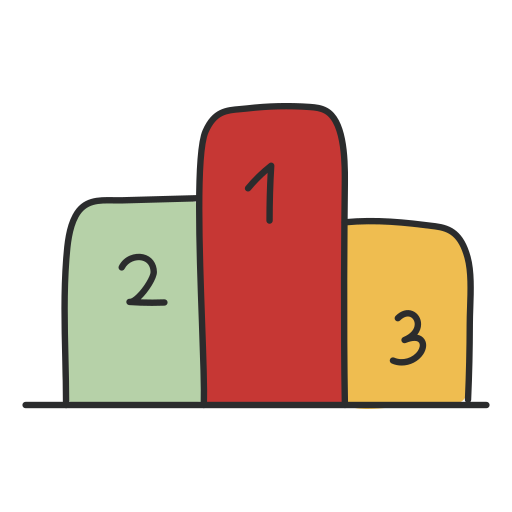
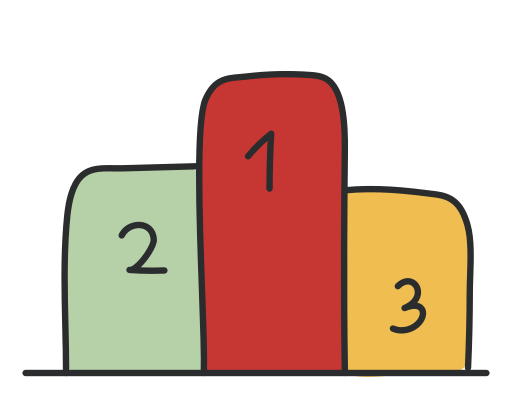
Modification taille image podium

diff --git a/style.css b/style.css
@@ -200,7 +200,7 @@ button:hover {
 .remove-player {
   background: none;
   border: none;
-  color: #c00;
+  color: #c00 !important;
   font-size: 1.2em;
   margin-left: 10px;
   cursor: pointer;
@@ -232,8 +232,7 @@ button:hover {
   background: var(--white);
 }
 
-.scrollable-list,
-.scrollable-next-list {
+.scrollable-list {
   max-height: 9em;
   overflow-y: auto;
   list-style: none;
@@ -241,15 +240,6 @@ button:hover {
   padding: 0;
 }
 
-.scrollable-list {
-  max-height: 9em;
-}
-
-.scrollable-next-list {
-  max-height: 14em;
-}
-
-.scrollable-next-list li,
 .scrollable-list li {
   display: flex;
   justify-content: space-between;
@@ -434,18 +424,18 @@ ul:has(li:not(.empty-placeholder)) .empty-placeholder {
 }
 
 .podium-slot.first {
-  top: 1.5em;
+  top: 0.5em;
   width: 100%;
 }
 
 .podium-slot.second {
-  top: 5em;
+  top: 4em;
   left: 0;
   width: 35%;
 }
 
 .podium-slot.third {
-  top: 6em;
+  top: 5em;
   right: 0;
   width: 30%;
 }
@@ -598,7 +588,6 @@ ul:has(li:not(.empty-placeholder)) .empty-placeholder {
   overflow-y: auto;
   display: flex;
   justify-content: center;
-  padding: 0 1em;
   margin-bottom: 1em;
 }
 

diff --git a/index.html b/index.html
@@ -70,7 +70,7 @@
         </div>
         <div class="next-players-container">
           <h3>🎮 Joueurs de la prochaine partie</h3>
-          <ul id="player-list" class="scrollable-next-list">
+          <ul id="player-list" class="scrollable-list">
             <li class="empty-placeholder">
               Aucun joueur ajouté pour l’instant.
             </li>
